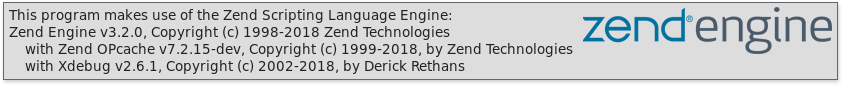
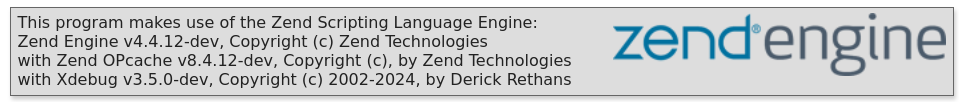
Refresh version and other info on 'Reporting Issues' page

diff --git a/views/support/reporting_bugs.php b/views/support/reporting_bugs.php
@@ -44,7 +44,7 @@ information:
 		</p>
 		<p>
 			If you <strong>really</strong> can't make a short script after
-			trying for several hours ;-), then please prepare something that I
+			trying for several hours, then please prepare something that I
 			can: clone from GitHub, use something like composer to install
 			dependencies, and then can run. The script can still not have
 			dependencies on things like databases, as I won't have them
@@ -57,7 +57,7 @@ information:
 			The <b>exact</b> version of Xdebug.
 		</p>
 		<p>
-			For example: <code>2.6.1</code>.
+			For example: <code>3.4.5</code>.
 		</p>
 	</li>
 	<li>
@@ -68,7 +68,7 @@ information:
 			This can be selected in the bug report. If you are using a
 			development version of PHP, please use the one with the
 			<code>-dev</code> prefix for that version, for example:
-			<code>7.4-dev</code>.
+			<code>8.5-dev</code>.
 		</p>
 	</li>
 	<li>
@@ -77,11 +77,11 @@ information:
 		</p>
 		<pre class="example">
 derick@gargleblaster:~$ php -v
-PHP 7.2.14 (cli) (built: Jan 24 2019 11:47:11) ( NTS DEBUG )
-Copyright (c) 1997-2018 The PHP Group
-Zend Engine v3.2.0, Copyright (c) 1998-2018 Zend Technologies
-    with Zend OPcache v7.2.14, Copyright (c) 1999-2018, by Zend Technologies
-    with Xdebug v2.7.0beta2-dev, Copyright (c) 2002-2018, by Derick Rethans
+PHP 8.4.12 (cli) (built: Aug 12 2025 12:21:50) (NTS DEBUG)
+Copyright (c) The PHP Group
+Zend Engine v4.4.12-dev, Copyright (c) Zend Technologies
+    with Zend OPcache v8.4.12, Copyright (c), by Zend Technologies
+    with Xdebug v3.4.3, Copyright (c) 2002-2024, by Derick Rethans
 		</pre>
 		<p>
 			Or otherwise the information next to the "zend® engine" logo in the output of <code>phpinfo();</code> :
@@ -162,18 +162,24 @@ right section on this page for further information if necessary.
 	The contents of the log should start with something like:
 </p>
 <pre class="example">
-[3020307] Log opened at 2020-10-29 03:20:25.076271
-[3020307] [Step Debug] INFO: Connecting to configured address/port: 127.0.0.1:43425.
-[3020307] [Step Debug] INFO: Connected to debugging client: 127.0.0.1:43425 (through xdebug.client_host/xdebug.client_port). :-)
-[3020307] [Step Debug] -&gt; &lt;init
+[2825283] Log opened at 2025-08-05 16:40:13.262097
+[2825283] [Config] INFO: Control socket set up successfully: '@xdebug-ctrl.2825283'
+[2825283] [Config] DEBUG: Checking if trigger 'XDEBUG_TRIGGER' is enabled for mode 'debug'
+[2825283] [Config] INFO: No shared secret: Activating
+[2825283] [Step Debug] INFO: Connecting to configured address/port: localhost:9003.
+[2825283] [Step Debug] WARN: Creating socket for 'localhost:9003', poll success, but error: Operation now in progress (29).
+[2825283] [Step Debug] INFO: Connected to debugging client: localhost:9003 (through xdebug.client_host/xdebug.client_port).
+[2825283] [Step Debug] ->
+&lt;init
     xmlns="urn:debugger_protocol_v1" xmlns:xdebug="https://xdebug.org/dbgp/xdebug"
-    fileuri="file:///home/httpd/www.xdebug.org/html/router.php"
-    language="PHP" xdebug:language_version="7.4.11-dev"
-    protocol_version="1.0" appid="2693358" idekey="XDEBUG_ECLIPSE"&gt;
-        &lt;engine version="3.0.0-dev"&gt;&lt;![CDATA[Xdebug]]&gt;&lt;/engine&gt;
+    fileuri="file:///home/derick/dev/php/derickr-xdebug/tests/debugger/pipes.inc"
+    language="PHP" xdebug:language_version="8.5.0-dev"
+    protocol_version="1.0" appid="2825283" idekey="yes"
+    xdebug:ctrl_socket="xdebug-ctrl.2825283"&gt;
+        &lt;engine version="3.5.0-dev"&gt;&lt;![CDATA[Xdebug]]&gt;&lt;/engine&gt;
         &lt;author&gt;&lt;![CDATA[Derick Rethans]]&gt;&lt;/author&gt;
         &lt;url&gt;&lt;![CDATA[https://xdebug.org]]&gt;&lt;/url&gt;
-        &lt;copyright&gt;&lt;![CDATA[Copyright (c) 2002-2020 by Derick Rethans]]&gt;&lt;/copyright&gt;
+        &lt;copyright&gt;&lt;![CDATA[Copyright (c) 2002-2024 by Derick Rethans]]&gt;&lt;/copyright&gt;
 &lt;/init&gt;
 </pre>
 

diff --git a/src/XdebugVersion.php b/src/XdebugVersion.php
@@ -3,7 +3,7 @@ namespace XdebugDotOrg;
 
 class XdebugVersion
 {
-    public const NOT_SUPPORTED_BEFORE = '3.1';
+    public const NOT_SUPPORTED_BEFORE = '3.3';
     public const LATEST_VERSION = '3.4.5';
     public const LATEST_WINDOWS_VERSION = '3.4.5';
 
